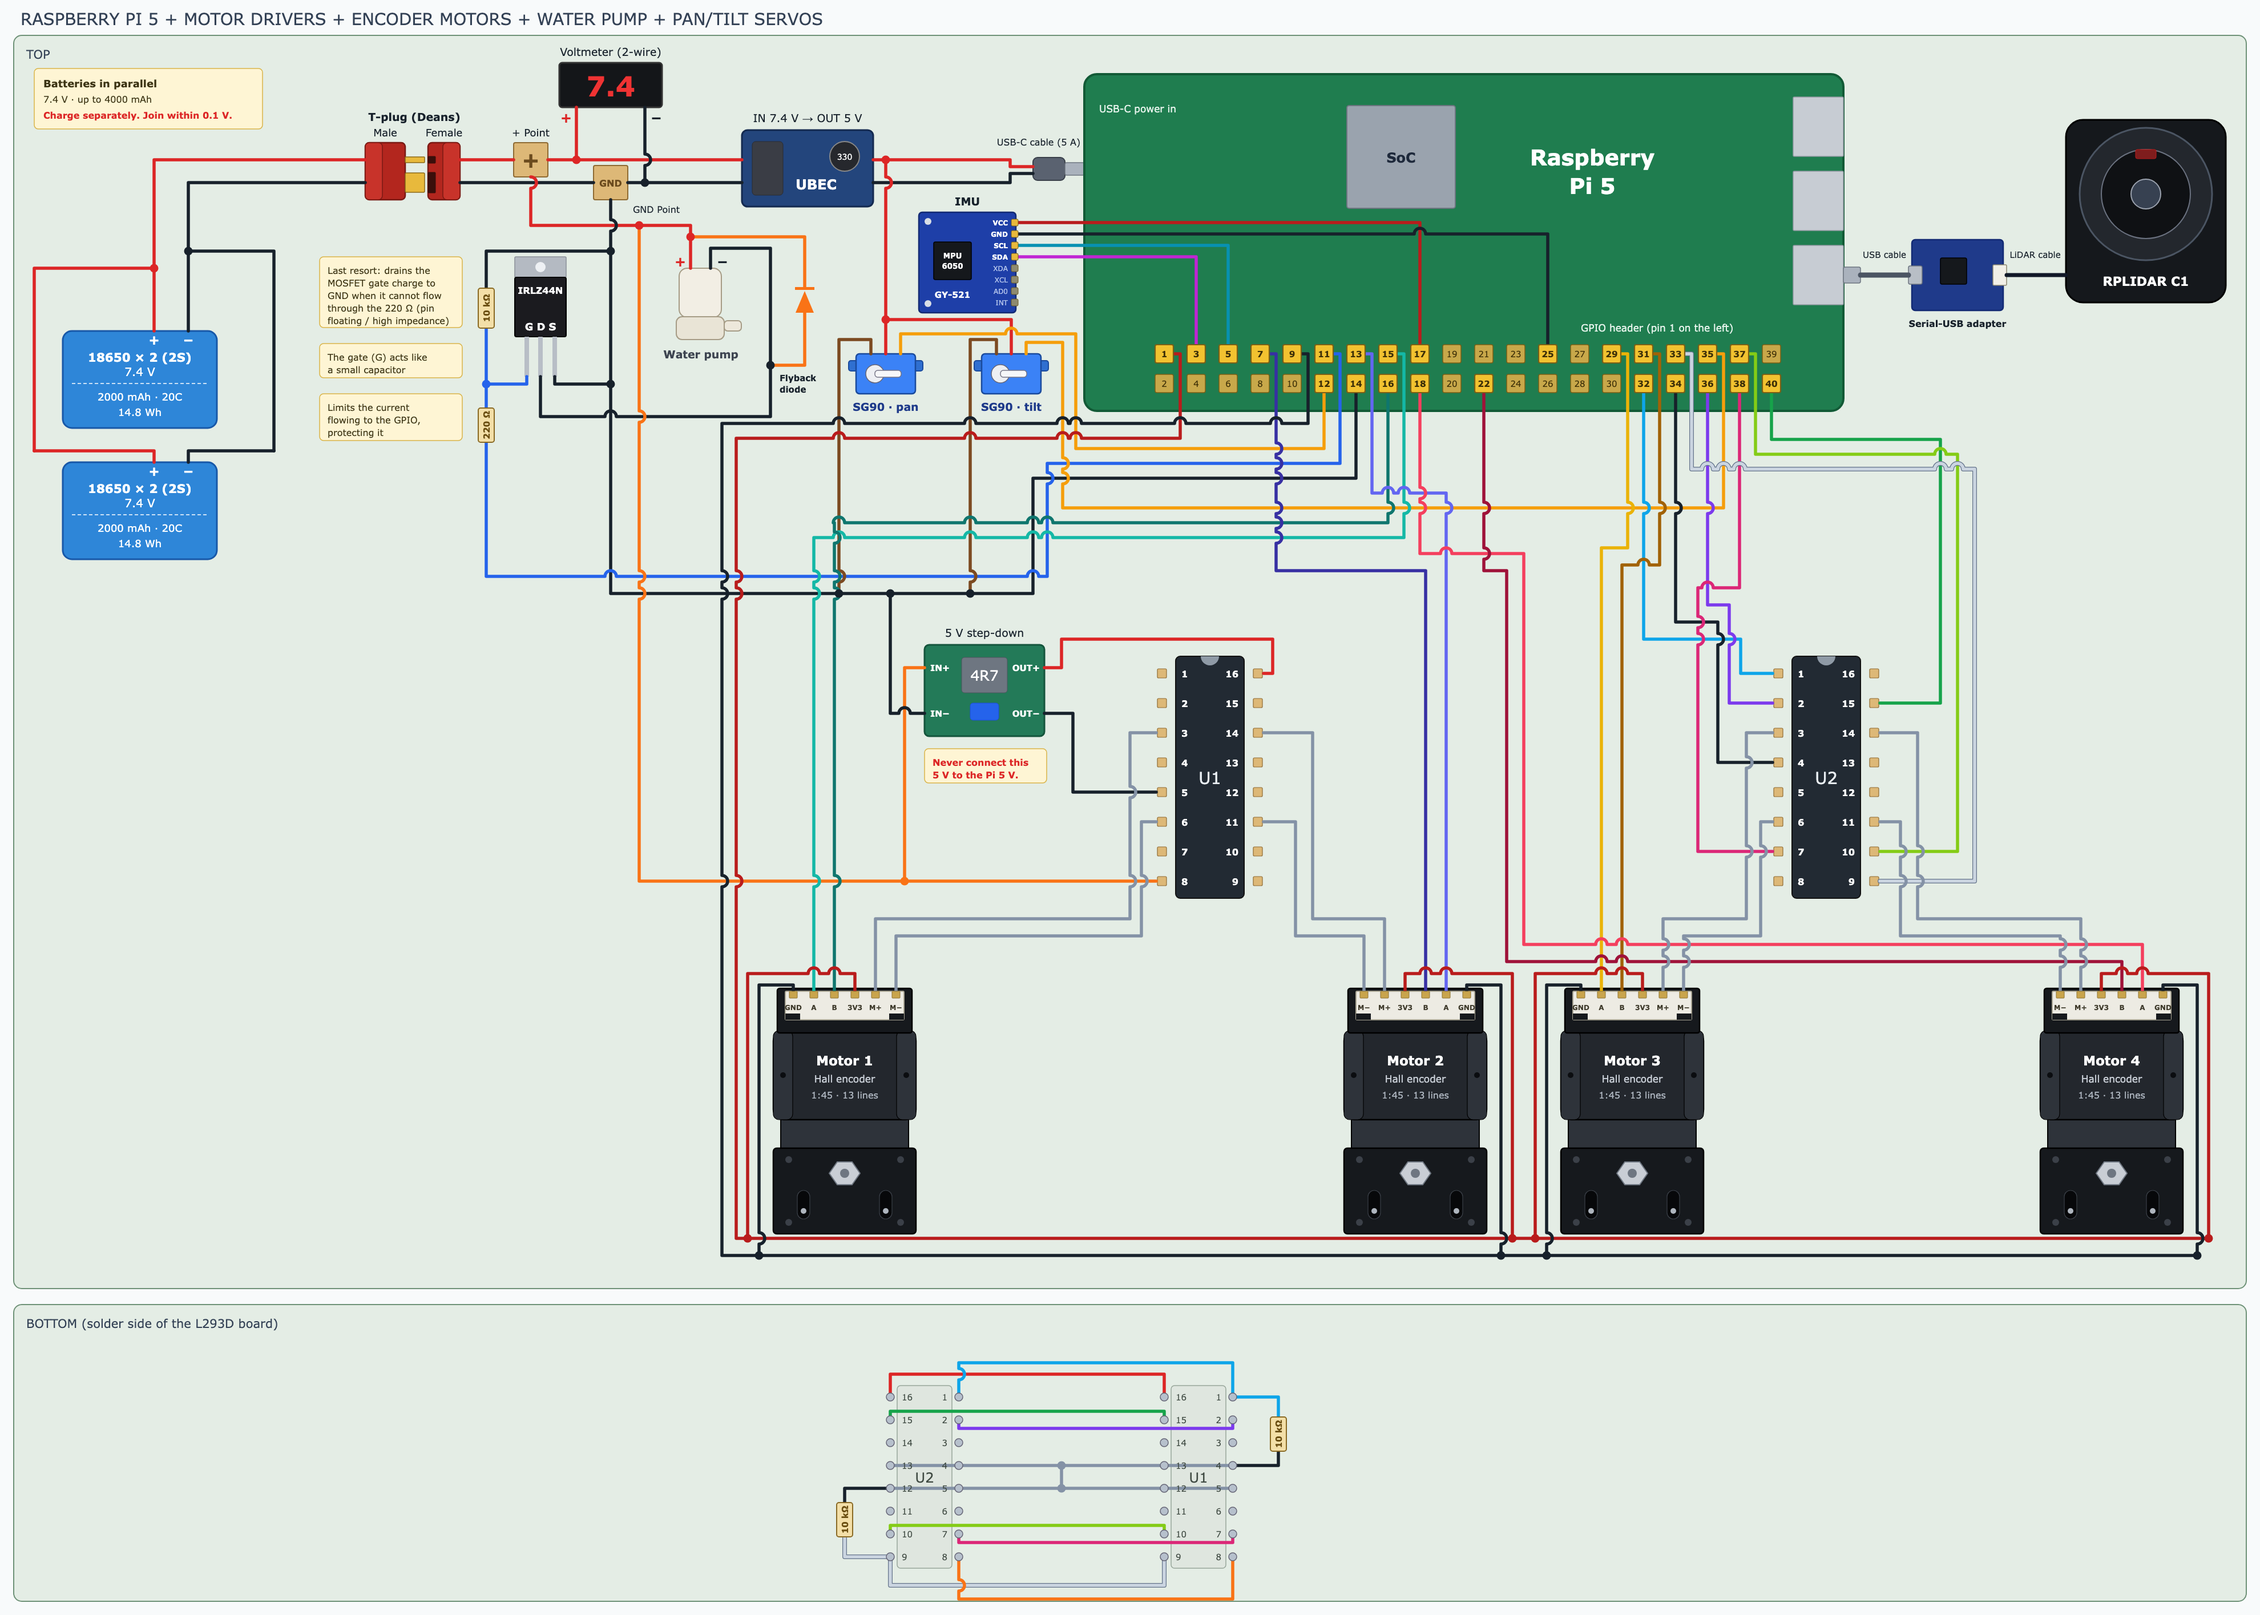
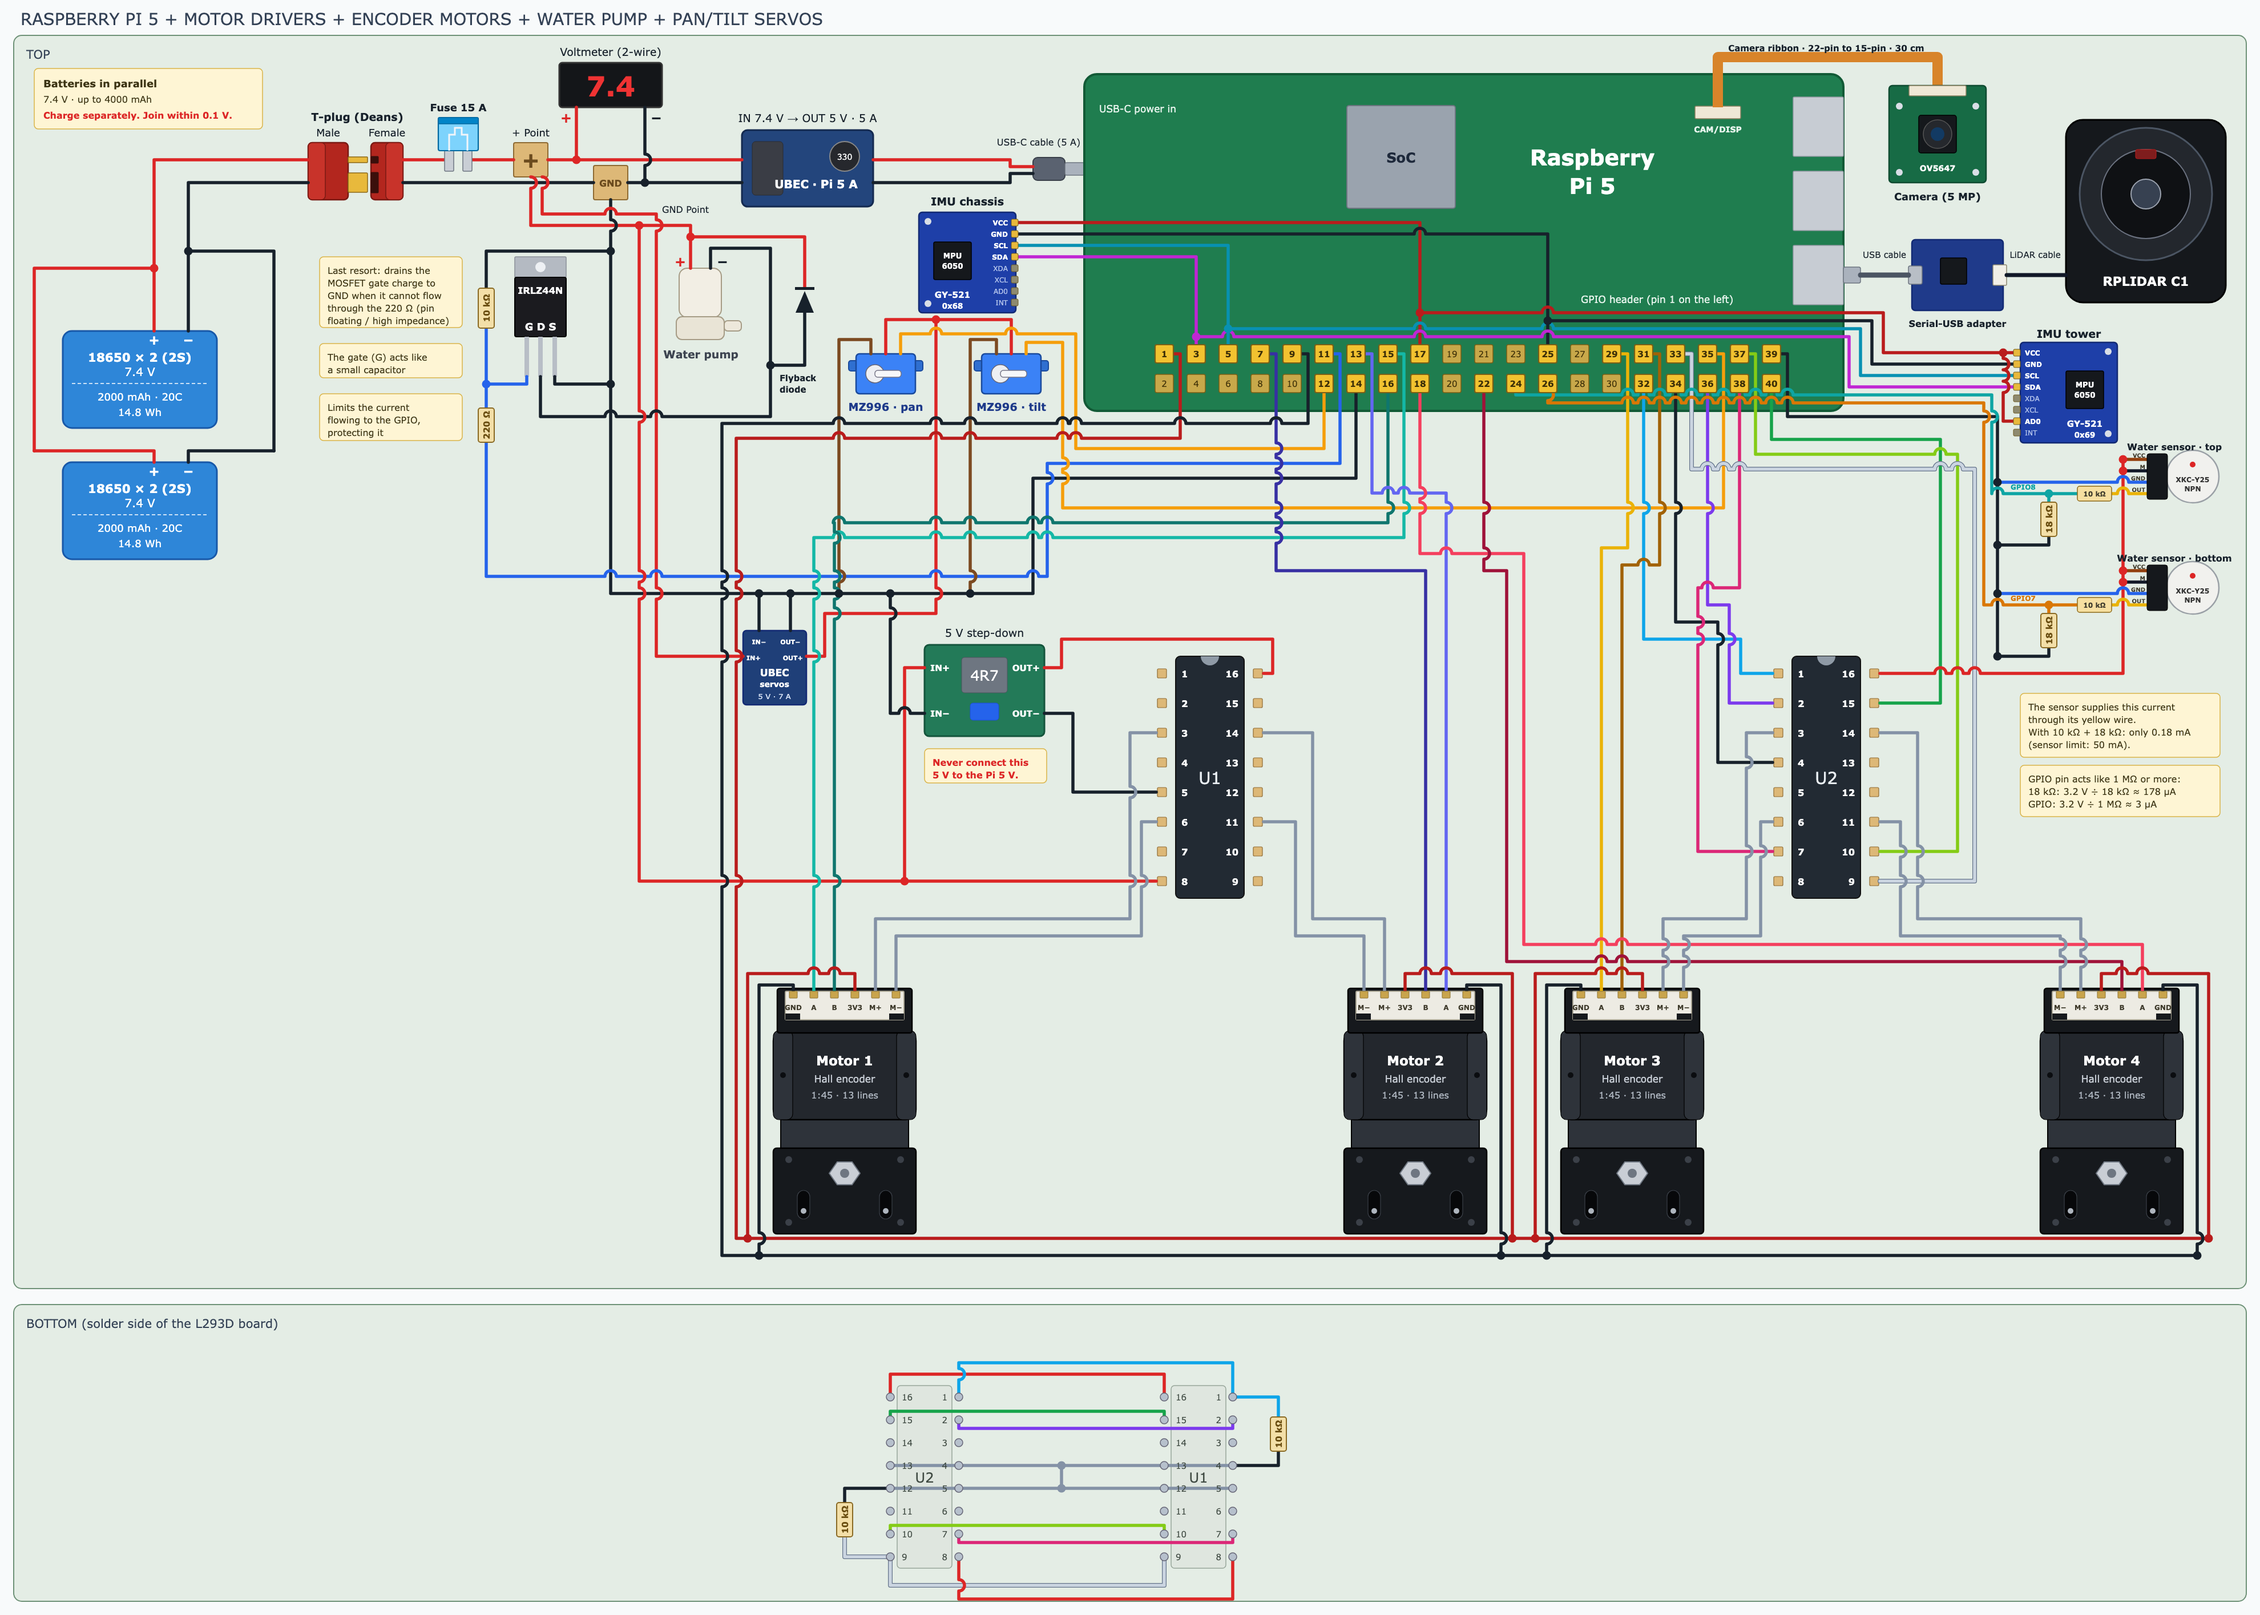
Add servo UBEC, fuse, camera, tower IMU and water sensors to the wiring

diff --git a/hardware/README.md b/hardware/README.md
@@ -4,26 +4,29 @@ Wiring diagram and the 3D-printed chassis (Fusion 360 source; export an STL from
 
 | File | What it is |
 | --- | --- |
-| `wiring_diagram.png` | Raspberry Pi 5, power, L293D motor drivers, encoder motors, LiDAR, IMU, water pump and pan/tilt servos |
+| `wiring_diagram.png` | Raspberry Pi 5, power, L293D motor drivers, encoder motors, LiDAR, camera, two IMUs, water pump, water level sensors and pan/tilt servos |
 | `Chassis.f3d` | Chassis source (Fusion 360) |
 
 This is the Phase III wiring, with the Raspberry Pi 5 controlling everything. It has not been built or tested yet, and the Raspberry program does not drive the motors or read the encoders yet.
 
-<div align="center"><img src="wiring_diagram.png" width="1000" alt="Complete Raspberry Pi 5 wiring: power, L293D motor drivers, encoder motors, LiDAR, IMU, water pump and servos"></div>
+<div align="center"><img src="wiring_diagram.png" width="1000" alt="Complete Raspberry Pi 5 wiring: power, L293D motor drivers, encoder motors, LiDAR, camera, two IMUs, water pump, water level sensors and servos"></div>
 
 ## Power
 
 - **Batteries:** two 2S packs of 18650 cells in parallel (7.4 V nominal, 8.4 V full, 2000 mAh each). Charge each pack separately and join them only when their voltages are within 0.1 V.
 - **T-plug:** the only power connection between the batteries and the robot. With it unplugged, nothing after it is powered, including the voltmeter.
+- **Fuse:** a 15 A blade fuse on the positive wire, between the T-plug and the + Point. It cuts the batteries off if there is a short circuit.
 - **Voltmeter:** connected after the T-plug, so it does not drain the batteries while the robot is off. The minimum PWM that turns the motors rises as the battery drains.
-- **UBEC (7.4 V → 5 V):** feeds the Raspberry Pi through a USB-C cable **and** both SG90 servos. The servos are never connected to the 7.4 V battery line: the SG90 is rated for 4.8–6 V.
-- **5 V step-down:** feeds only the logic supply of both L293D chips (pin 16). Never connect its output to the Pi's 5 V.
-- **Ground:** batteries, UBEC, step-down, L293D chips, MOSFET, servos, encoders, IMU and Pi share one ground.
+- **Pi UBEC (7.4 V → 5 V, 5 A):** feeds only the Raspberry Pi, through a USB-C cable. The LiDAR and the camera get their power from the Pi.
+- **Servo UBEC (7.4 V → 5 V, 7 A):** feeds only the two MZ996 servos, on its own red wire from the + Point, so servo current peaks do not pull down the Pi's supply. Its output can be 5.25 V ± 0.5 V, so never connect it to the Pi.
+- **5 V step-down:** feeds the logic supply of both L293D chips (pin 16) and the two water level sensors. Never connect its output to the Pi's 5 V.
+- **Ground:** batteries, both UBECs, step-down, L293D chips, MOSFET, servos, encoders, IMUs, water level sensors and Pi share one ground.
 
 ## Pump and servos
 
 - **Pump:** runs from the 7.4 V line. Its negative side goes through an IRLZ44N logic-level MOSFET. The Pi drives the gate from GPIO17 (pin 11) through a 220 Ω resistor; a 10 kΩ resistor from gate to ground keeps the pump off while the Pi boots or if the wire comes loose.
 - **Flyback diode:** the pump is an inductive load. A 1N5819 across it (cathode to +) protects the MOSFET from the voltage spike when it switches off.
+- **Servos:** two Miuzei MZ996, each drawing up to about 1.8 A when it stalls. They are never connected to the battery line, because a full 2S pack (8.4 V) is above their 7.4 V rating.
 - **Servo signals:** pan on GPIO18 (pin 12), tilt on GPIO19 (pin 35), hardware PWM.
 
 ## Motors
@@ -38,13 +41,17 @@ This is the Phase III wiring, with the Raspberry Pi 5 controlling everything. It
 
 - **Encoder power:** 3.3 V from Pi pin 1 and ground from Pi pin 9. Never use 5 V, because the GPIO pins only tolerate 3.3 V.
 - **Encoder signals (A, B), with internal pull-ups:** motor 1 on GPIO22 and GPIO23, motor 2 on GPIO27 and GPIO4, motor 3 on GPIO5 and GPIO6, motor 4 on GPIO24 and GPIO25.
-- **IMU (MPU6050, GY-521 module):** I2C with SDA on GPIO2 (pin 3) and SCL on GPIO3 (pin 5), 3.3 V from pin 17 and ground from pin 25. XDA, XCL, AD0 and INT stay unconnected.
+- **IMUs (MPU6050, GY-521 modules):** one on the chassis and one on the tower, sharing the same I2C bus: SDA on GPIO2 (pin 3), SCL on GPIO3 (pin 5), 3.3 V from pin 17 and ground from pin 25. The chassis IMU leaves AD0 unconnected (address 0x68). The tower IMU has AD0 tied to 3.3 V (address 0x69). XDA, XCL and INT stay unconnected on both.
 - **LiDAR (RPLIDAR C1):** connects through its serial-to-USB adapter board to a USB port on the Pi. It uses no GPIO.
+- **Camera (OV5647, 5 MP):** connects to a CAM/DISP connector on the Pi with a 30 cm ribbon, 22-pin on the Pi side and 15-pin on the camera side. It uses no GPIO.
+- **Water level sensors (two XKC-Y25-NPN):** glued outside the bottle, one low to know when to refill and one high to know when it is full. The plug is cut off and the wires are soldered: brown to 5 V, blue to ground (Pi pin 39), black (mode) to 5 V, yellow to the signal.
+- **Water sensor signal:** the yellow wire can reach 5 V and the GPIO pins only tolerate 3.3 V. Each sensor uses a divider: 10 kΩ from yellow to the GPIO and 18 kΩ from the GPIO to ground, which gives about 3.2 V with water and 0 V without. The bottom sensor goes to GPIO7 (pin 26) and the top one to GPIO8 (pin 24), with the internal pull-ups off.
 
-GPIO 7, 8, 9, 10, 11, 14 and 15 remain free.
+GPIO 9, 10, 11, 14 and 15 remain free.
 
 ## Things to check before trusting the wiring
 
 - **Motor plug orientation:** confirm which side of the plug is pin 1 on the real motor before connecting it. A reversed plug could put the motor voltage on the encoder.
-- **UBEC current:** the Raspberry Pi 5 can draw up to 5 A, and each servo can draw up to about 0.7 A when it stalls. Check that the UBEC rating covers both at the same time.
+- **Servo UBEC output:** measure it with a multimeter before connecting the servos.
+- **Water sensor signal:** before connecting a sensor to the Pi, measure the point between its two resistors. It must read about 3.2 V with water and 0 V without. The wire functions come from the XKC-Y25-T12V datasheet, a close variant, so confirm them on the real sensor.
 - **Stopping the motors:** hardware PWM keeps running if the Raspberry program freezes, so the motor code needs its own way to stop the car.
